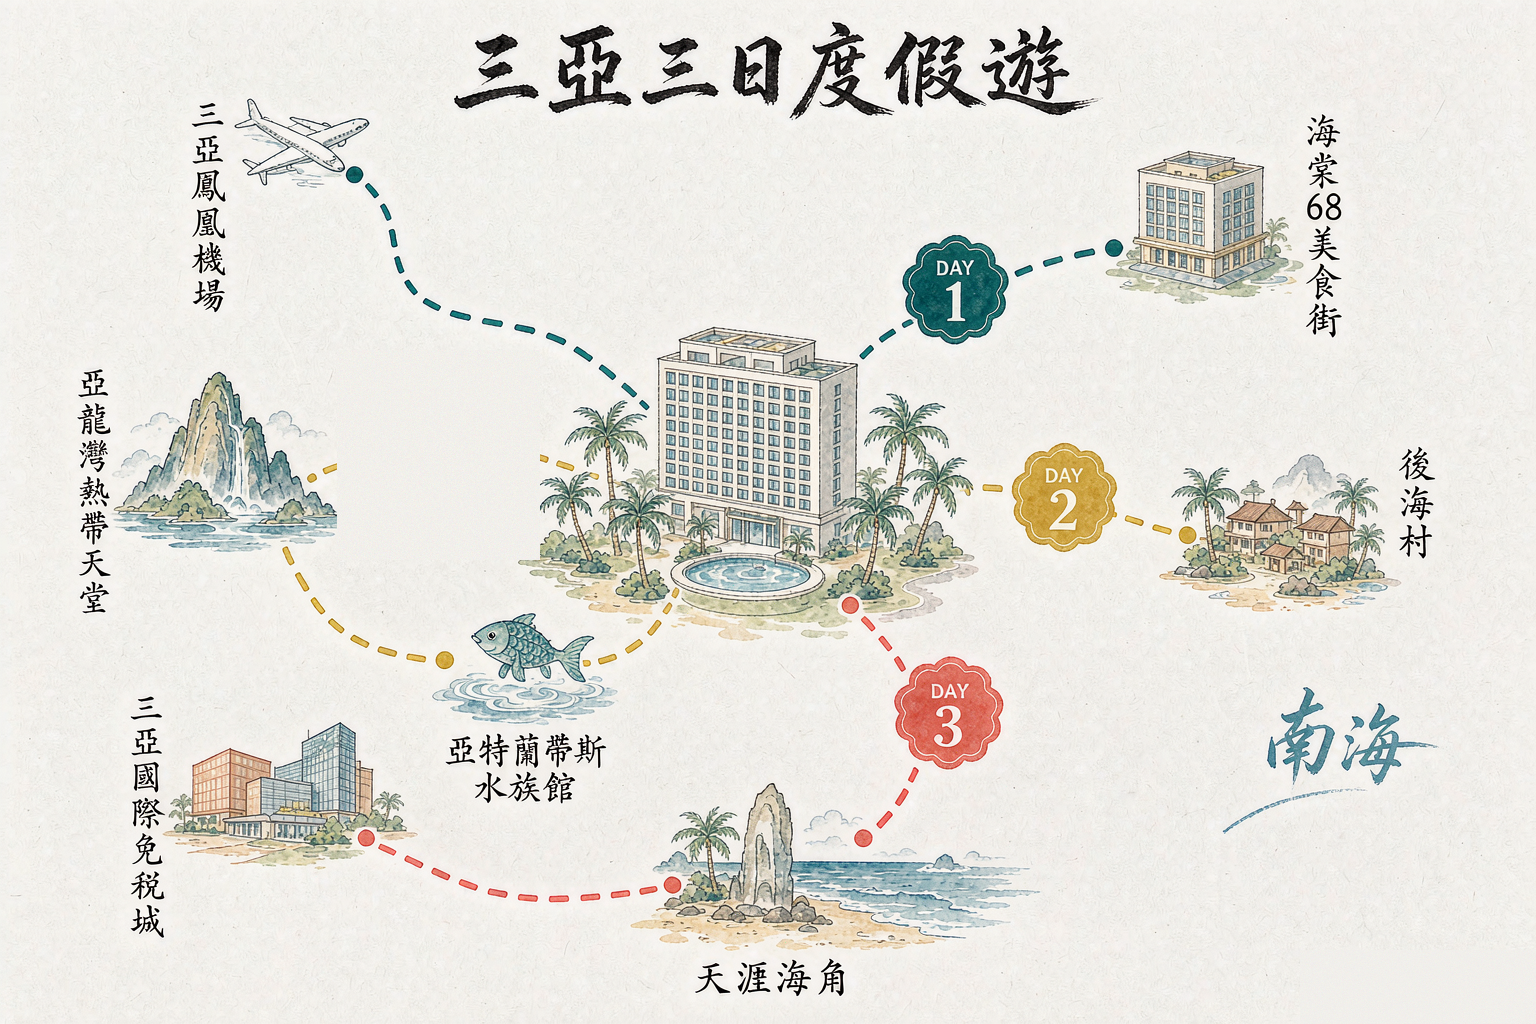
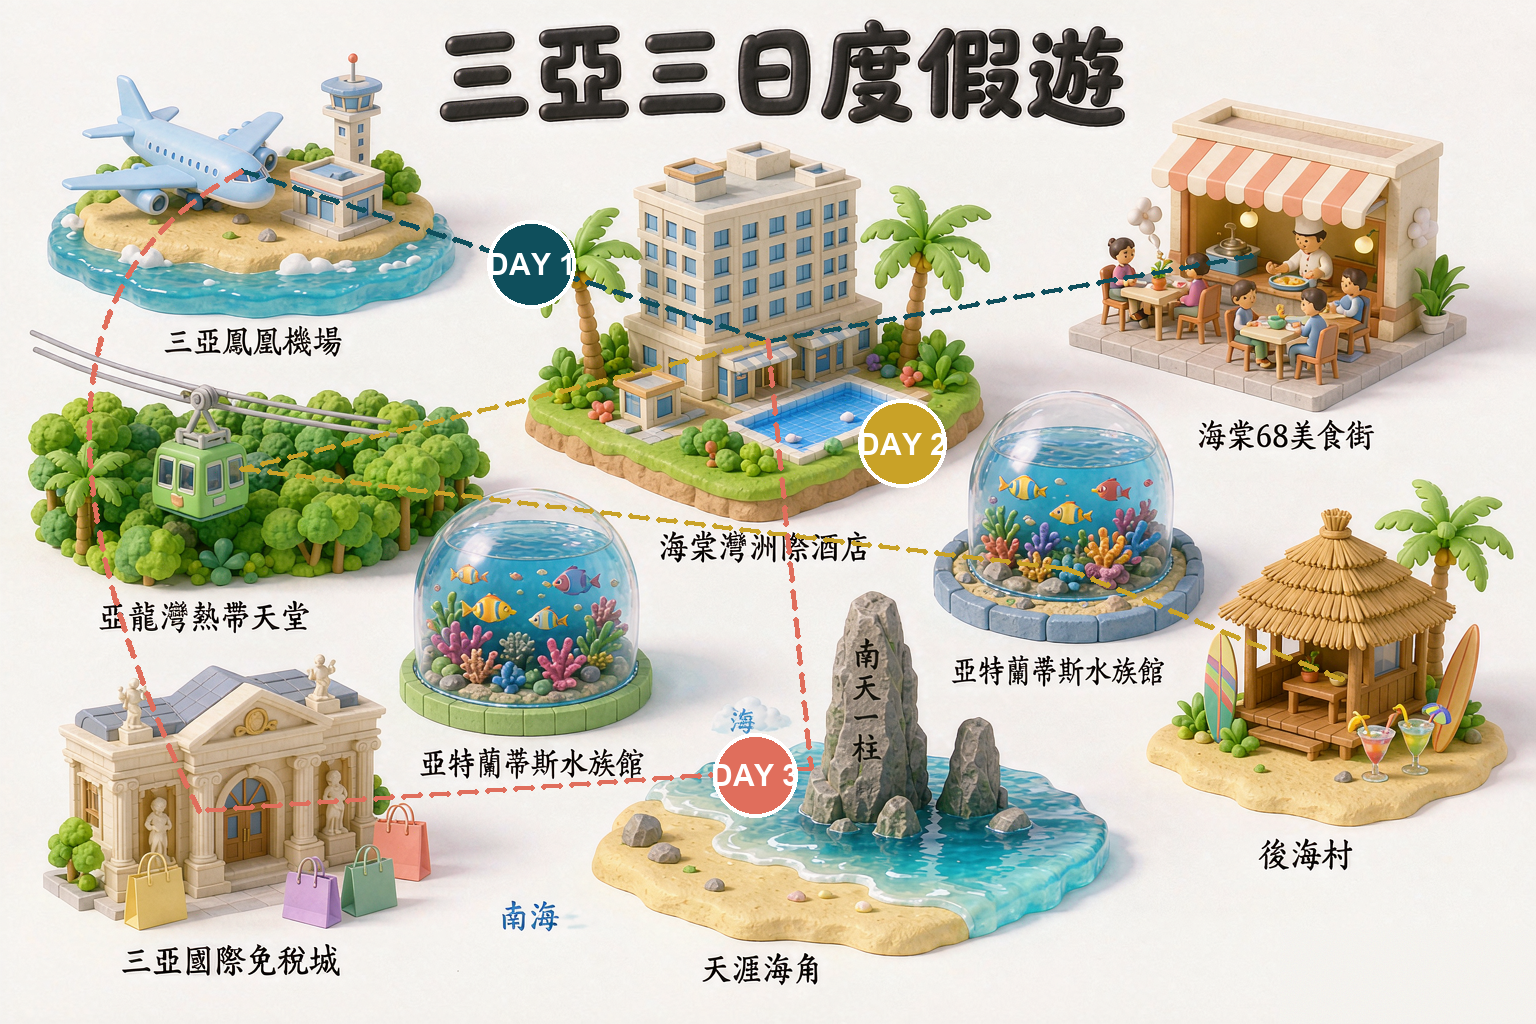
Sanya: programmatic route overlay (fixes recurring AI route-semantics errors) - Day1 teal airport-hotel-food, Day2 gold hotel-yalong-aquarium-houhai, Day3 coral hotel-tianya-dutyfree-airport

diff --git a/sanya/assets/cartoon-preview/draw_routes.py b/sanya/assets/cartoon-preview/draw_routes.py
@@ -1,0 +1,139 @@
+# -*- coding: utf-8 -*-
+"""Draw itinerary routes + DAY badges onto the clean scene map.
+Route semantics (source of truth = itinerary):
+  Day 1 (deep teal): 機場 -> 酒店 -> 美食街
+  Day 2 (warm gold): 酒店 -> 亞龍灣 -> 水族館 -> 後海村
+  Day 3 (coral):     酒店 -> 天涯海角 -> 免稅城 -> 機場
+"""
+from PIL import Image, ImageDraw, ImageFont
+import math, sys
+
+SRC = 'Cute_isometric_3D_miniature_di_2026-10-03T05-28-04.png'
+OUT_PNG = 'H_iso_no_wm.png'
+OUT_JPG = 'H_iso_web.jpg'
+
+# ---- palette ----
+TEAL  = (15, 79, 92)      # Day 1  #0F4F5C
+GOLD  = (201, 162, 39)    # Day 2  #C9A227
+CORAL = (224, 110, 92)    # Day 3  coral pink
+
+im = Image.open(SRC).convert('RGB')
+W, H = im.size
+draw = ImageDraw.Draw(im)
+
+# ---- scene centers (measured on the 1536x1024 source) ----
+SCENES = {
+    'airport':  (242, 171),
+    'hotel':    (768, 341),
+    'food':     (1251, 256),
+    'yalong':   (242, 469),
+    'aquarium': (1067, 569),
+    'houhai':   (1351, 683),
+    'tianya':   (811, 768),
+    'dutyfree': (199, 811),
+}
+
+ROUTES = [
+    ('DAY 1', TEAL,  [('airport', None), ('hotel', None), ('food', None)]),
+    ('DAY 2', GOLD,  [('hotel', None), ('yalong', None), ('aquarium', None), ('houhai', None)]),
+    # Day 3 last leg (dutyfree -> airport) curves west to avoid crossing 亞龍灣
+    ('DAY 3', CORAL, [('hotel', None), ('tianya', None), ('dutyfree', None),
+                      ('airport', (-40, 320))]),
+]
+
+def dashed_line(dr, p1, p2, color, dash=16, gap=12, width=5):
+    x1, y1 = p1; x2, y2 = p2
+    dx, dy = x2 - x1, y2 - y1
+    dist = math.hypot(dx, dy)
+    if dist < 1: return
+    ux, uy = dx / dist, dy / dist
+    t = 0.0
+    while t < dist:
+        t2 = min(t + dash, dist)
+        a = (x1 + ux * t, y1 + uy * t)
+        b = (x1 + ux * t2, y1 + uy * t2)
+        dr.line([a, b], fill=color, width=width)
+        # round caps
+        r = width / 2
+        dr.ellipse([a[0]-r, a[1]-r, a[0]+r, a[1]+r], fill=color)
+        dr.ellipse([b[0]-r, b[1]-r, b[0]+r, b[1]+r], fill=color)
+        t = t2 + gap
+
+def qbez(p0, p1, p2, t):
+    """Quadratic bezier point."""
+    mt = 1 - t
+    return (mt*mt*p0[0] + 2*mt*t*p1[0] + t*t*p2[0],
+            mt*mt*p0[1] + 2*mt*t*p1[1] + t*t*p2[1])
+
+def dashed_curve(dr, p0, pc, p2, color, dash=16, gap=12, width=5, steps=120):
+    """Dashed line along a quadratic bezier from p0 via control pc to p2."""
+    pts = [qbez(p0, pc, p2, i/steps) for i in range(steps+1)]
+    # walk along polyline placing dashes
+    seg = 0; t_in_seg = 0.0
+    dashing = True; remain = float(dash)
+    cur = pts[0]
+    for nxt in pts[1:]:
+        seg_len = math.hypot(nxt[0]-cur[0], nxt[1]-cur[1])
+        t = 0.0
+        while t < seg_len:
+            step = min(remain, seg_len - t)
+            ta = t / seg_len; tb = (t + (step if dashing else 0)) / seg_len
+            a = (cur[0] + (nxt[0]-cur[0])*ta, cur[1] + (nxt[1]-cur[1])*ta)
+            if dashing:
+                b = (cur[0] + (nxt[0]-cur[0])*tb, cur[1] + (nxt[1]-cur[1])*tb)
+                dr.line([a, b], fill=color, width=width)
+                r = width / 2
+                dr.ellipse([a[0]-r, a[1]-r, a[0]+r, a[1]+r], fill=color)
+                dr.ellipse([b[0]-r, b[1]-r, b[0]+r, b[1]+r], fill=color)
+            t += step
+            remain -= step
+            if remain <= 0.0001:
+                dashing = not dashing
+                remain = dash if dashing else gap
+        cur = nxt
+
+def badge(dr, center, label, color, radius=44, font=None):
+    x, y = center
+    dr.ellipse([x-radius, y-radius, x+radius, y+radius],
+               fill=color, outline=(255,255,255), width=4)
+    if font is None:
+        font = ImageFont.truetype('arialbd.ttf', 30)
+    bbox = dr.textbbox((0, 0), label, font=font)
+    tw, th = bbox[2]-bbox[0], bbox[3]-bbox[1]
+    dr.text((x - tw/2 - bbox[0], y - th/2 - bbox[1]), label,
+            fill=(255,255,255), font=font)
+
+# ---- badge anchors: pick a point on each route, away from scenes ----
+def point_on(p1, p2, t):
+    return (p1[0] + (p2[0]-p1[0])*t, p1[1] + (p2[1]-p1[1])*t)
+
+BADGE_POS = {
+    'DAY 1': point_on(SCENES['airport'], SCENES['hotel'], 0.55),   # between airport & hotel
+    'DAY 2': point_on(SCENES['hotel'], SCENES['aquarium'], 0.45),  # hotel -> aquarium leg
+    'DAY 3': (755, 775),  # on tianya->dutyfree leg, nudged right to clear the aquarium label
+}
+BADGE_R = {'DAY 1': 44, 'DAY 2': 44, 'DAY 3': 42}
+
+# ---- draw routes ----
+for label, color, stops in ROUTES:
+    for i in range(len(stops)-1):
+        (sa, ca), (sb, cb) = stops[i], stops[i+1]
+        p1, p2 = SCENES[sa], SCENES[sb]
+        if cb is not None:  # curved leg via control point (absolute coords)
+            dashed_curve(draw, p1, cb, p2, color)
+        else:
+            dashed_line(draw, p1, p2, color)
+
+# ---- draw badges on top ----
+try:
+    font = ImageFont.truetype('arialbd.ttf', 30)
+except OSError:
+    font = ImageFont.truetype('C:/Windows/Fonts/arialbd.ttf', 30)
+
+for label, color, _ in ROUTES:
+    badge(draw, BADGE_POS[label], label, color, radius=BADGE_R[label], font=font)
+
+im.save(OUT_PNG)
+im.save(OUT_JPG, 'JPEG', quality=85, optimize=True, progressive=True)
+im.resize((1024, 683)).save('_preview.png')
+print('saved', OUT_PNG, OUT_JPG)
